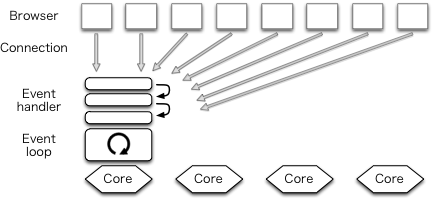
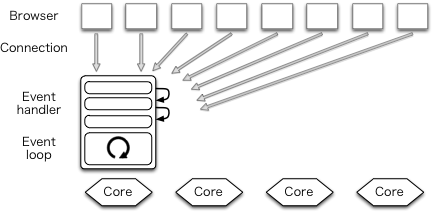
redrawing pictures.

diff --git a/warp.md b/warp.md
@@ -116,16 +116,20 @@ it possible to write clear code
 like traditional thread programming
 while keeping high-performance (Fig (TBD:4.png)).
 
-![User threads](https://raw.github.com/snoyberg/posa-chapter/master/4.png)
+![User threads with one process per core](https://raw.github.com/snoyberg/posa-chapter/master/4.png)
 
 As of this writing, `mighty` uses the prefork technique to fork processes
 to utilize cores and Warp does not have this functionality.
+
 The prefork technique will be obsoleted because
 the Haskell community developed a parallel IO manager.
 A Haskell program with the parallel IO manager is executed
 as a single process and
-multiple IO managers run as native threads to utilize cores.
+multiple IO managers run as native threads to utilize cores (Fig (TBD:5.png)).
 Each user thread is executed on any one of the cores.
+
+![User threads in a sigle process](https://raw.github.com/snoyberg/posa-chapter/master/5.png)
+
 GHC version 7.8 including the parallel IO manager will be released
 in the autumn of 2013.
 With GHC version 7.8, 
